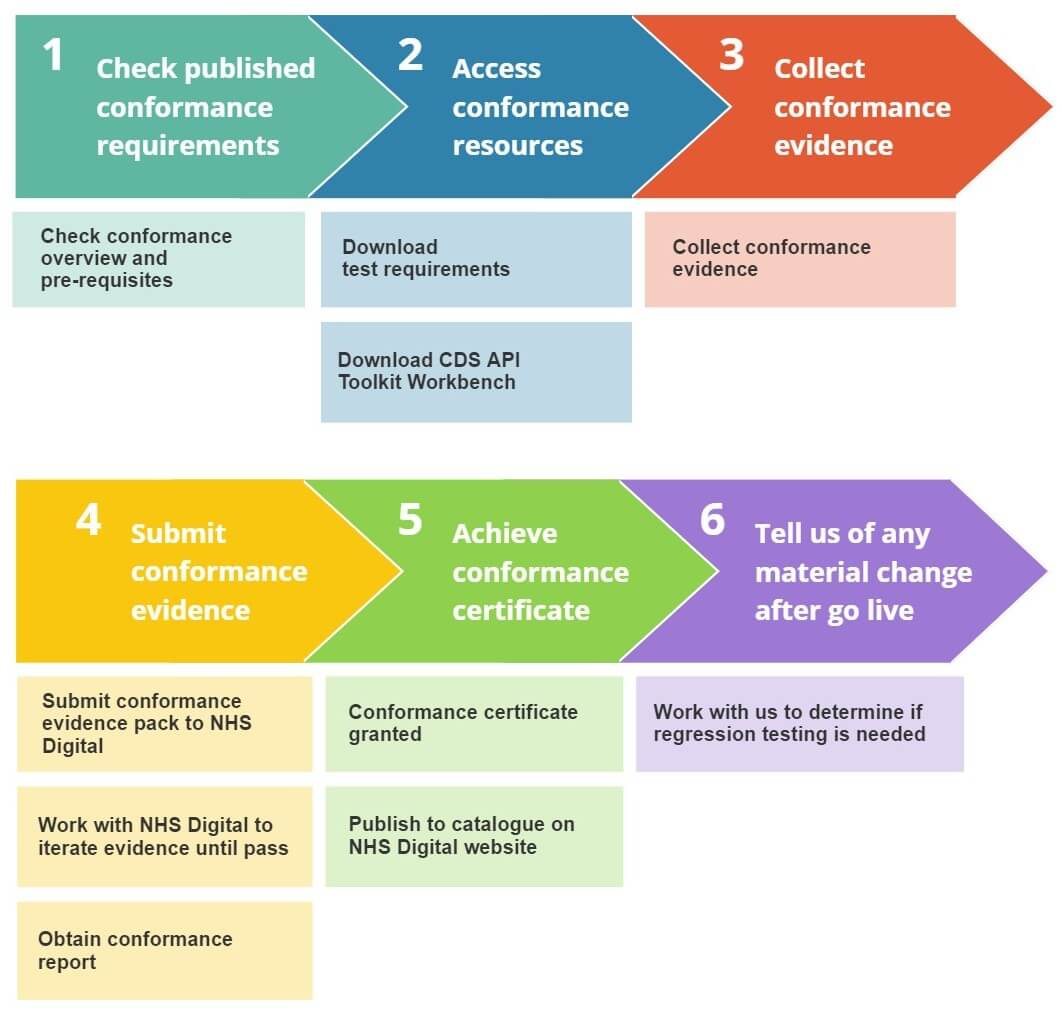
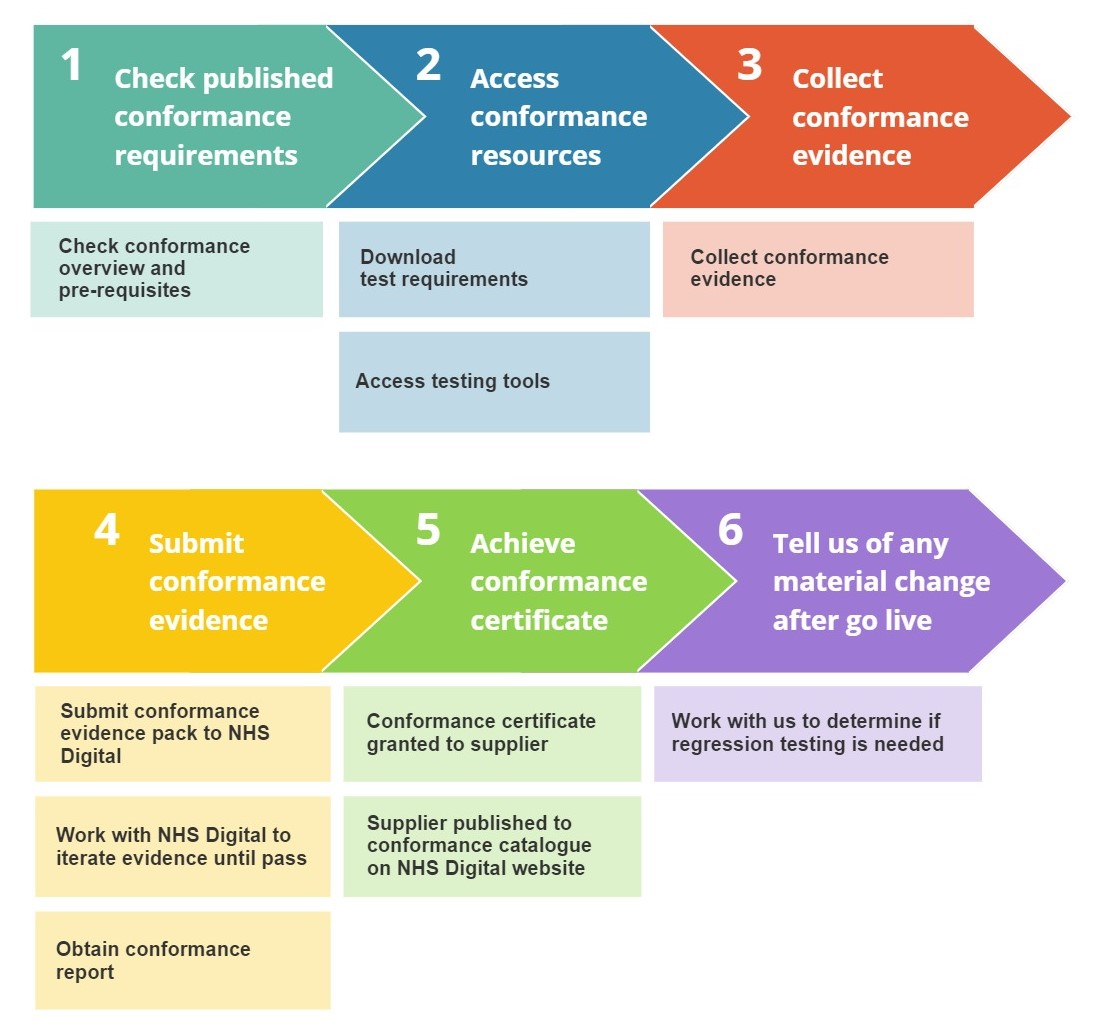
Updates to the CDSAPI conformance page

diff --git a/_pages/business_capabilities/cds-api-conformance-overview.md b/_pages/business_capabilities/cds-api-conformance-overview.md
@@ -3,54 +3,33 @@ title: Clinical Decision Support API Conformance Overview
 sidebar: overview_sidebar
 permalink: cds-api-conformance-overview.html
 toc: true
-summary: A summary of the conformance approach NHS Digital is taking for assessing Clinical Systems conformance to the CDS API Implementation Guide 1.0.
+summary: A summary of NHS Digital's Conformance Approach for assessing a System's conformance to the CDS API Implementation Guide.
 folder: business_capabilities
 ---
 
 ## Introduction
-UEC System Suppliers must undergo a technical Conformance process to achieve CDS API Guide Conformance certification for their product. The purpose of CDS API Guide Conformance is for NHS Digital to validate that the developed product (Encounter Management System or Clinical Decision Support System) follows the <a href="https://developer.nhs.uk/apis/cds-api-1-0-0/">CDS API Implementation Guide</a> and is compliant with the guidance.  System suppliers will have access to a detailed requirements list and a Toolkit Workbench through which simple tests are carried out, to provide the required evidence to NHS Digital.
+The CDS API Conformance Approach can be used to validate whether or not a developed product is compliant with the [CDS API Implementation Guide](https://developer.nhs.uk/apis/cds-api/).
 
-View the <a href="https://developer.nhs.uk/apis/uec-tech-standards/cds-api-overview.html">CDS API overview</a> for further information on the CDS API Implementation Guide.
+It allows NHS Digital to validate that a developed product follows guidance correctly, and therefore is likely to be compatible with other systems using the standard. Suppliers that successfully complete the Technical Conformance process will be granted CDS API Guide Conformance certification for their product. These systems and suppliers will also be listed on NHS Digital’s [Conformance Catalogue](https://digital.nhs.uk/services/interoperability-toolkit/conformance/conformance-catalogue).
+
+The approach centres around suppliers using a requirements list and then providing the required evidence to NHS Digital for assessment. Technical tooling will be provided by NHS Digital to help with the execution of test cases to demonstrate the requirements have been met. Evidence will be in the form of both test tooling log outputs and self-certifying statements.
+
+The CDS API Conformance Approach will be applied to both Encounter Management Systems (EMS) and Clinical Decision Support Systems (CDSS).
+
+Please view the [CDS API overview](https://developer.nhs.uk/apis/uec-tech-standards/cds-api-overview.html) for further information on the CDS API Implementation Guide.
+
 
 ## Basic Technical Overview
-The API service being assured is the technical message interaction between an Encounter Management System (EMS) and a Clinical Decision Support System (CDSS) using <a href="http://www.hl7.org/fhir/STU3/summary.html">FHIR STU3</a> as detailed in the <a href="https://developer.nhs.uk/apis/cds-api-1-0-0/">CDS API Implementation Guide</a>. 
-
-The CDS API Implementation Guide supports the following interactions for both the EMS and the CDSS acting as either consumer or provider:
-
-<table>
-  <tr>
-    <th>Actor</th>
-    <th>Read</th>
-    <th>Search</th>
-    <th>Create</th>
-    <th>Update</th>
-    <th>Delete</th>
-  </tr>
-  <tr>
-    <td>Consumer</td>
-    <td class="text-center"><i class="fa fa-check text-success"></i></td>
-    <td class="text-center"><i class="fa fa-check text-success"></i></td>
-    <td class="text-center"><i class="fa fa-check text-success"></i></td>
-    <td class="text-center"><i class="fa fa-check text-success"></i></td>
-    <td class="text-center"><i class="fa fa-times text-danger"></i></td>
-  </tr>
-  <tr>
-    <td>Provider</td>
-    <td class="text-center"><i class="fa fa-times text-danger"></i></td>
-    <td class="text-center"><i class="fa fa-times text-danger"></i></td>
-    <td class="text-center"><i class="fa fa-check text-success"></i></td>
-    <td class="text-center"><i class="fa fa-check text-success"></i></td>
-    <td class="text-center"><i class="fa fa-times text-danger"></i></td>
-  </tr>
-</table>
-
+The API service being assured is the technical message interaction between an Encounter Management System (EMS) and a Clinical Decision Support System (CDSS) using [FHIR STU3](http://www.hl7.org/fhir/STU3/summary.html) as detailed in the [CDS API Implementation Guide](https://developer.nhs.uk/apis/cds-api/). 
 
 ### Encounter Management System
-An EMS is used for workflow management and to record, manage and track patient encounters of care through UEC settings. The EMS enables the triage and clinical assessment of patients to determine their health needs and signpost them to the appropriate care setting or support the provision of clinical consultation and treatment; this is expected to be achieved through integration with one or more supporting systems and services.
+An Encounter Management System (EMS) is used for workflow management and to record, manage and track patient encounters of care through Urgent and Emergency Care (UEC) settings.
 
-The EMS is responsible for invoking the decision support process on the CDSS. The EMS will typically also manage elements like user authentication, workflow and user interactions.
+The EMS enables the triage and clinical assessment of patients to determine their health needs. It will then signpost them to the appropriate care setting or support the provision of clinical consultation and treatment. This patient journey is expected to be achieved through integration with one or more supporting systems and services.
 
-As per the <a href="https://developer.nhs.uk/apis/cds-api-1-0-0/overview_concepts.html">CDS API Implementation Guide</a>, the EMS MUST be able to:
+The EMS is responsible for invoking the decision support process on the Clinical Decision Support System (CDSS). The EMS will typically also manage elements like user authentication, workflow and user interactions.
+
+As per the <a href="https://developer.nhs.uk/apis/cds-api/overview_concepts.html">CDS API Implementation Guide</a>, the EMS MUST be able to:
 
 - Initiate the search and selection of a <code>ServiceDefinition</code>
 - Initiate the evaluation of a <code>ServiceDefinition</code>
@@ -61,11 +40,11 @@ The Encounter Management System MAY:
 - Write (Create & Update) resources which are not core (e.g. <code>Condition</code>)
 
 ### Clinical Decision Support System
-A Clinical Decision Support System (CDSS) is a health information technology system that is designed to provide clinical and non-clinical UEC personnel undertaking triage or consultation, with clinical decision support (CDS); that is, assistance with clinical decision-making tasks.
+A Clinical Decision Support System (CDSS) is a health information technology system that is designed to provide clinical decision support (CDS); that is, assistance with clinical decision-making tasks. A CDSS may provide this support to clinical and non-clinical UEC personnel undertaking triage or consultation.
 
 The CDSS is responsible for making clinical decisions, and communicating these as recommendations to the EMS.
 
-As per the <a href="https://developer.nhs.uk/apis/cds-api-1-0-0/overview_concepts.html">CDS API Implementation Guide</a>, the CDSS MUST be able to:
+As per the <a href="https://developer.nhs.uk/apis/cds-api/overview_concepts.html">CDS API Implementation Guide</a>, the CDSS MUST be able to:
 
 - Respond to filtered searches for <code>ServiceDefinition</code>
 - Respond to evaluation of a <code>ServiceDefinition</code>
@@ -73,7 +52,7 @@ As per the <a href="https://developer.nhs.uk/apis/cds-api-1-0-0/overview_concept
 - Write (Create & Update) appropriate resources (e.g. <code>Questionnaire</code>, <code>Observation</code>)
 
 ## Conformance Approach
-As with all NHS Digital services, the approach to CDS API Guide Conformance must be efficient, appropriate to risk, and demonstrate clear reasoning and rationale.
+As with all NHS Digital services, the approach to CDS API Guide Conformance must be efficient, appropriate to the level of risk involved, and demonstrate clear reasoning and rationale.
 
 Efficiency, appropriateness, and flexibility are key areas that have been considered when developing this conformance approach, examples being:
 
@@ -97,16 +76,16 @@ The illustration below summarises the key stages and activities a UEC Technology
     </li>
     <li>
         <strong>Access conformance resources</strong><br>
-        <p>The detailed conformance requirements list will be published on these pages of the NHS Digital developer site. The requirements list will detail all requirements that are needed to provide evidence against and achieve a passing level of conformance as determined by NHS Digital.</p>
-        <p>A copy of the Toolkit Workbench Tool will be made available with test scripts for suppliers to develop their systems to, and generate conformance evidence.</p>
+        <p>The conformance requirements list will be published on these pages of the NHS Digital developer site. The requirements list will detail all requirements that are needed to provide evidence towards a passing level of conformance.</p>
+        <p>Access to technical tooling will be made available with test scripts for suppliers to develop their systems to, and generate conformance evidence.</p>
     </li>
     <li>
         <strong>Collect conformance evidence</strong><br>
-        <p>Using the detailed requirements list Suppliers can collate their evidence. Evidence will be in the form of self-certifying statements and TKW log outputs.</p>
+        <p>Using the conformance requirements list Suppliers can collate their evidence. Evidence will be in the form of self-certifying statements and TKW log outputs.</p>
     </li>
     <li>
         <strong>Submit conformance evidence</strong><br>
-        <p>Once evidence has been collected against the detailed requirements list this can be submitted to NHS Digital for assessment.</p>
+        <p>Once evidence has been collected against the requirements list this can be submitted to NHS Digital for assessment.</p>
         <p>There may be a period of iteration where Suppliers will revise the submitted evidence until it satisfies our team.</p>
         <p>At the end of the conformance assessment process a report is generated with details of the tests.</p>
     </li>
@@ -119,21 +98,23 @@ The illustration below summarises the key stages and activities a UEC Technology
     <li>
         <strong>Tell us of any material change after go live</strong>
         <br>
-        <p>The conformance process tests systems at a point in time. If a Supplier system has a version increment that affects the implementation of the CDS API Guidance in the product, then Suppliers can work with the Solutions Assurance team to retest the affected requirements in scope to achieve an uplift of the conformance status.</p>
+        <p>The conformance process tests systems at a point in time. If a Supplier system has a version increment that affects the implementation of the CDS API Guide in the product, then Suppliers can work with the Solutions Assurance team to retest the affected requirements in scope to achieve an uplift of the conformance status.</p>
     </li>
 </ol>
 
+## Requirements list and technical tooling
+Development of the conformance requirements and technical tooling for suppliers to execute test cases to generate evidence is currently underway. These will be linked to from these pages once available for circulation.
+
+The test tooling will provide various technical test features, including the ability to validate HTTP headers, JWT, and FHIR base/profiled resources. The test tooling will also act as a technical HTTP endpoint stub, with pre-configured responses based on specific triggers.
+
+We welcome suppliers wishing to engage with the Conformance approach to contact us via the [Communication Channels](https://developer.nhs.uk/apis/cds-api-1-1-0/support_communications.html) to access these resources. 
+
 
 ## Pre-requisites for CDS API Guide Conformance
-As per the <a href="https://developer.nhs.uk/apis/cds-api-1-0-0/api_overview.html">CDS API Implementation Guide</a>:
 
-Consumer / Provider Server API Conformance
-<ul>
-    <li>MUST support <a href="https://www.hl7.org/fhir/stu3/">HL7 FHIR STU3 version 3.0.1</a>.</li>
-    <li>MUST Implement REST behaviour according to the <a href="http://www.hl7.org/fhir/STU3/http.html">FHIR specification</a>.</li>
-    <li>MUST support XML <strong>or</strong> JSON formats for all API interactions.</li>
-    <li>MUST expose a valid CDS FHIR <a href="https://www.hl7.org/fhir/STU3/capabilitystatement.html">CapabilityStatement</a> identifying the list of resources, operations and search parameters supported.</li>
-</ul>
+Pre-requisites for CDS API Guide conformance can be viewed on the [pre-requisites](https://developer.nhs.uk/apis/cds-api/api_prerequisites.html) page.
+
+
 
 ## Test requirements
 Suppliers undergoing conformance testing are required to provide:
@@ -144,7 +125,39 @@ Suppliers undergoing conformance testing are required to provide:
 - A declaration regarding clinical safety to confirm the obligations under [DCB0129 - Clinical Risk Management: its Application in the Manufacture of Health IT Systems](http://content.digital.nhs.uk/isce/publication/scci0129)
 
 
+
+## Scope of the Conformance Approach
+The scope of the CDS API Conformance Approach is assuring that a system conforms to V1.1.1 of CDS API Implementation Guide. As such, it solely covers technical certification of a given product to this standard.
+
+## Out of scope of the Conformance Approach
+The following areas are out of the scope of the Implementation Guide and Conformance. We have provided useful links to assist individuals in making their own judgements on what additional assessments and accreditation may be needed.
+
+### Clinical safety and risk
+The Conformance Approach requires a declaration regarding clinical safety to confirm the obligations under [DCB0129 - Clinical Risk Management: its Application in the Manufacture of Health IT Systems](https://digital.nhs.uk/data-and-information/information-standards/information-standards-and-data-collections-including-extractions/publications-and-notifications/standards-and-collections/dcb0129-clinical-risk-management-its-application-in-the-manufacture-of-health-it-systems). However, management of clinical safety and risk his remains the responsibility of system manufacturers, which should seek assessments and accreditation appropriate for the nature and use of their product.
+
+Useful links:
+
+- NHS Digital: [DCB0160: Clinical Risk Management: its Application in the Deployment and Use of Health IT Systems](https://digital.nhs.uk/data-and-information/information-standards/information-standards-and-data-collections-including-extractions/publications-and-notifications/standards-and-collections/dcb0160-clinical-risk-management-its-application-in-the-deployment-and-use-of-health-it-systems)
+
+### Medical Device assessment and regulation
+It is the responsibility of system manufacturers to ensure that any assessment or regulation of their product as a potential Medical Device is carried out.
+
+Useful links:
+
+- Medicines and Healthcare products Regulatory Agency: [Medical devices regulation and safety](https://www.gov.uk/topic/medicines-medical-devices-blood/medical-devices-regulation-safety)
+- Medicines and Healthcare products Regulatory Agency: [Medical device stand-alone software including apps](https://www.gov.uk/government/publications/medical-devices-software-applications-apps)
+
+### Security
+The Implementation Guide features guidance on how an API should identify authorised access to an endpoint. However, this is just one aspect of information security and it remains the responsibility of system manufacturers to ensure safe and suitable security practices are followed.
+
+### Information Governance
+Appropriate handling, storage and consents around patient and system data remain the responsibilities of system manufacturers.
+
+Useful links:
+- Gov.UK [Caldicott review: information governance in the health and care system](https://www.gov.uk/government/publications/the-information-governance-review)
+- Information Commissioner’s Office: [Guide to the General Data Protection Regulation (GDPR)](https://ico.org.uk/for-organisations/guide-to-data-protection/guide-to-the-general-data-protection-regulation-gdpr/)
+
 ## Contact details
 
-If you are an Urgent and Emergency Care technology supplier interested in achieving CDS API conformance for your product, please contact us at: <a href="mailto:enquiries@nhsdigital.nhs.uk">enquiries@nhsdigital.nhs.uk</a>
+To begin the process contact us at: <a href="mailto:enquiries@nhsdigital.nhs.uk">enquiries@nhsdigital.nhs.uk</a>
 
